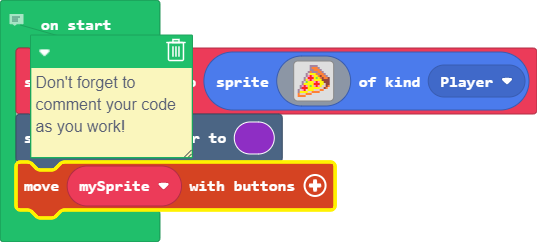
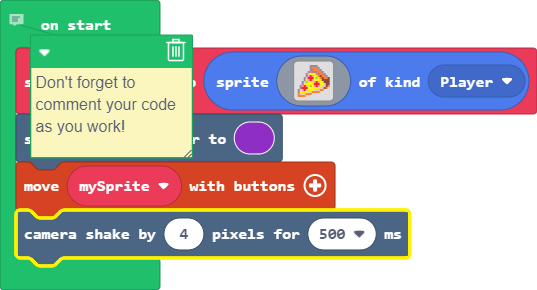
Update main.blocks, main.ts

diff --git a/main.ts b/main.ts
@@ -19,3 +19,4 @@ let mySprite = sprites.create(img`
     `, SpriteKind.Player)
 scene.setBackgroundColor(10)
 controller.moveSprite(mySprite)
+scene.cameraShake(4, 500)
